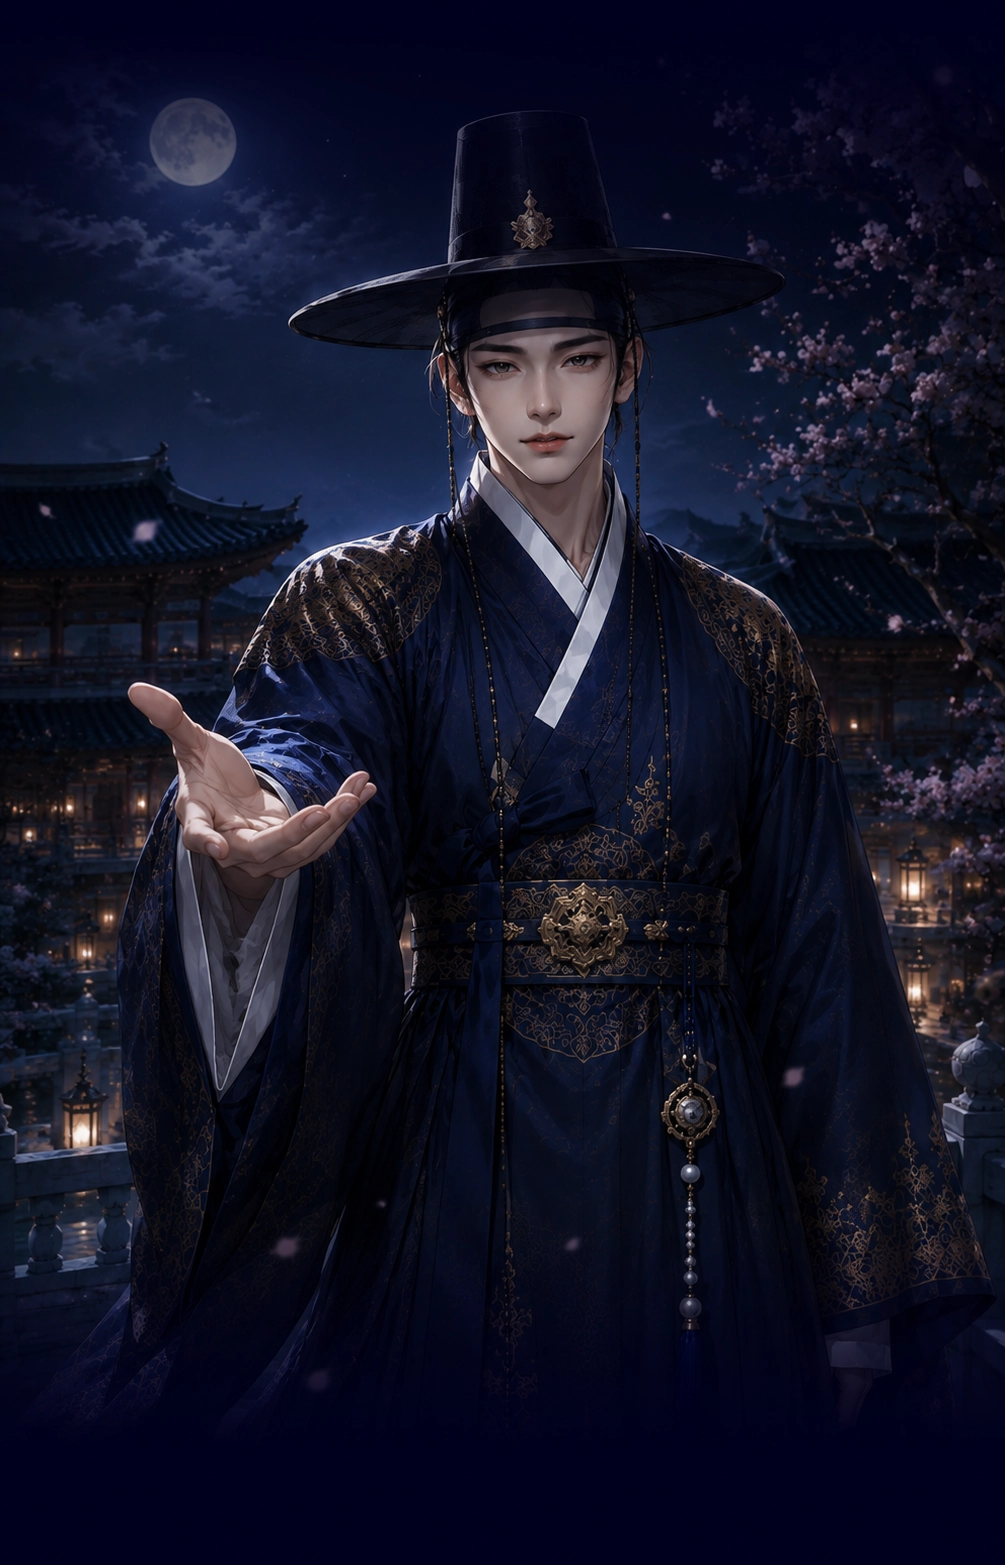
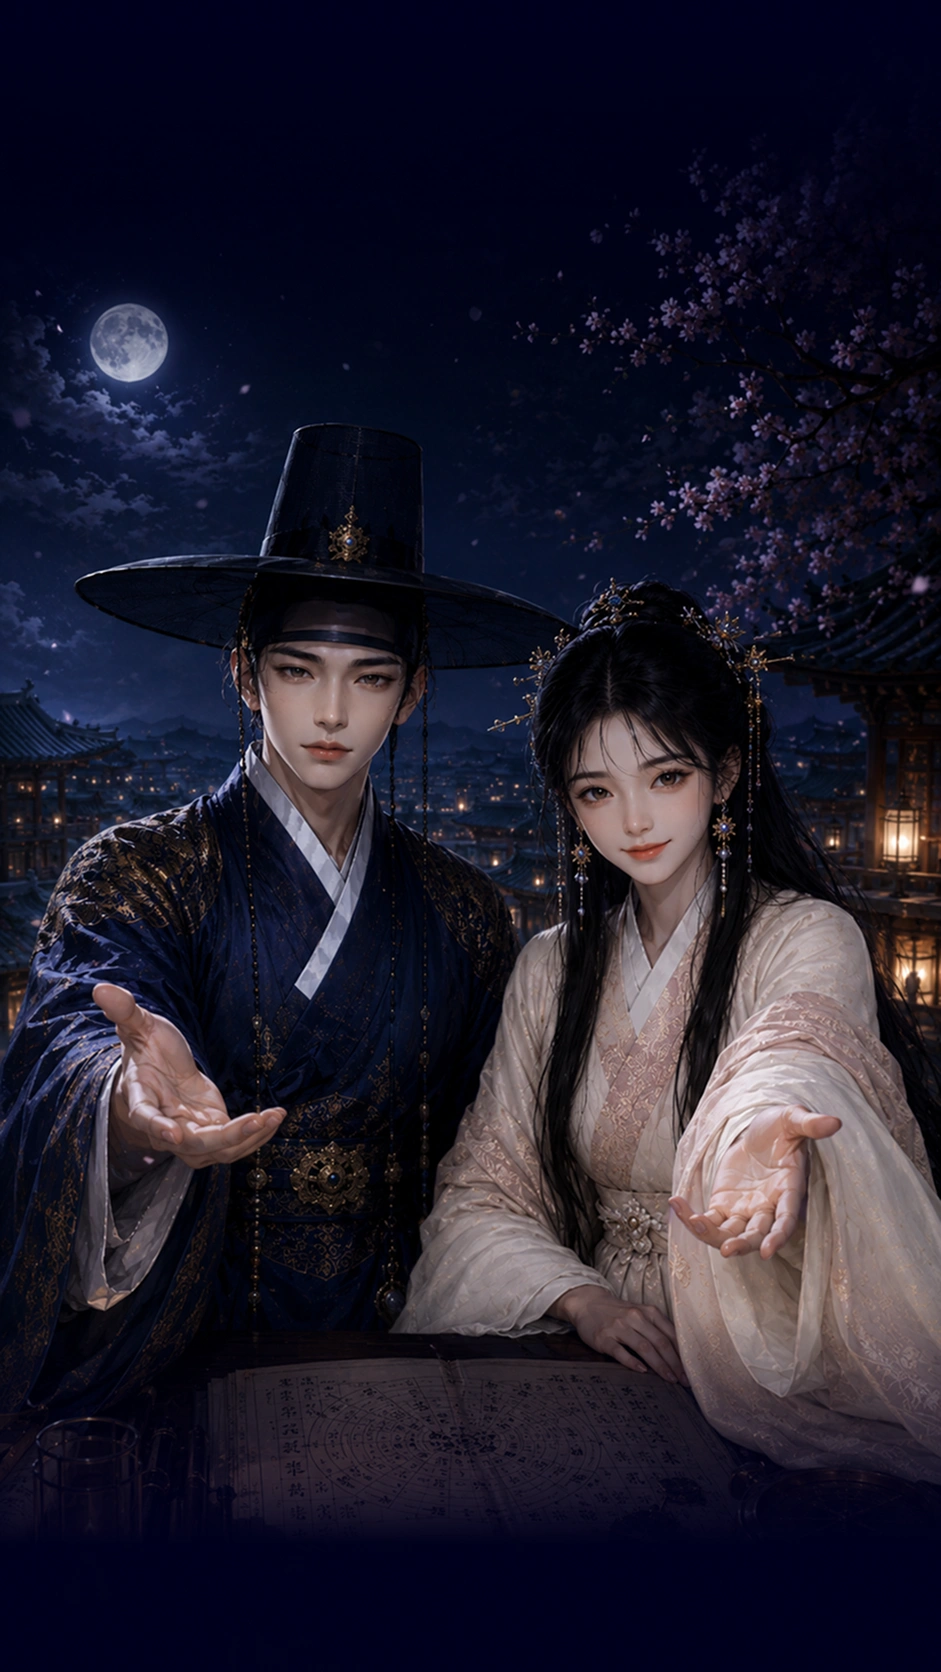
궁합결과및궁합결제수정

diff --git a/resources/js/result_match.js b/resources/js/result_match.js
@@ -34,44 +34,44 @@ const sajuAniImg = {
   pig: "w_pig.webp",
 }
 
-// const sajuExplains = [
-//     {
-//         title: "속궁합과 겉궁합",
-//         content: "두 사람은 겉으로 보이는 성격과 행동 방식이 잘 맞아 처음 만남부터 편안함을 느끼는 궁합입니다. 겉궁합은 매우 좋은 편으로, 대화가 자연스럽고 서로의 존재가 안정감을 줍니다. 다만 속궁합의 경우 내면의 욕구와 감정 표현 방식이 다소 달라 깊은 관계로 발전할수록 세심한 배려가 필요합니다."
-//     },
-//     {
-//         title: "상생과 상극",
-//         content: "두 사람의 오행을 살펴보면 목(木)과 화(火)의 상생 관계가 형성되어 있어 한 사람의 에너지가 다른 사람을 자연스럽게 북돋아 주는 구조입니다. 다만 일부 지지에서 상극 기운이 존재하므로 감정이 격해지는 순간에는 서로를 자극하지 않도록 주의가 필요합니다."
-//     },
-//     {
-//         title: "인연의 깊이",
-//         content: "두 사람의 인연은 단순한 만남이 아닌 전생부터 이어져 온 깊은 흔적이 사주에 남아 있습니다. 처음 만났음에도 오래 알고 지낸 듯한 익숙함을 느끼는 것도 이 때문입니다. 이 인연을 소중히 가꾸어 나간다면 오랜 시간이 지나도 변치 않는 깊은 유대로 발전할 수 있습니다."
-//     },
-//     {
-//         title: "두 사람 사이의 위기 시점",
-//         content: "사주의 흐름상 두 사람 사이에 갈등이 커질 수 있는 시기가 존재합니다. 특히 금(金) 기운이 강해지는 가을철과 경신년(庚辛年) 주기에 오해와 마찰이 생기기 쉽습니다. 이 시기에는 큰 결정을 서두르지 말고, 작은 일에 감정을 소모하지 않는 것이 중요합니다. 위기를 미리 알고 대비하는 것만으로도 관계의 고비를 훨씬 수월하게 넘길 수 있습니다."
-//     },
-//     {
-//         title: "결혼 궁합 — 부부로 살면 어떨까?",
-//         content: "두 사람이 부부로 맺어진다면 초반 3~5년은 서로의 다름을 맞춰가는 적응기가 필요합니다. 일간의 음양 배합이 비교적 조화롭고 배우자 자리(일지)에서 합(合)의 기운이 감지되어 정서적 안정감을 주는 결혼 궁합입니다. 재물 운용 방식과 생활 습관의 차이를 초반에 조율해 두면 함께할수록 더욱 단단해지는 부부가 될 수 있습니다."
-//     },
-//     {
-//         title: "함께 일하면? 비즈니스 궁합",
-//         content: "두 사람의 사주에서 관성과 식상의 흐름이 서로 보완적으로 작용하여 비즈니스 파트너로서 좋은 시너지를 낼 수 있는 조합입니다. 한 명은 아이디어와 추진력을, 다른 한 명은 안정적인 실행력을 담당하는 구조로 역할 분담이 자연스럽게 이루어집니다. 다만 금전 관계가 얽히면 감정 문제로 번질 수 있으니 계약과 정산은 명확히 하는 것이 좋습니다."
-//     },
-//     {
-//         title: "자녀 인연 — 아이와의 궁합",
-//         content: "두 사람이 맺어졌을 때 자녀 인연이 어떻게 나타나는지 사주로 살펴볼 수 있습니다. 두 사람의 사주 구조상 자녀 자리(시주)의 기운이 활발하여 아이와의 인연이 깊고, 자녀로 인해 두 사람의 관계가 더욱 단단해지는 흐름이 보입니다. 첫째 아이와의 인연이 특히 강하며, 아이를 통해 두 사람이 서로를 더 깊이 이해하게 되는 계기가 만들어집니다."
-//     },
-//     {
-//         title: "전생 인연 — 우리는 왜 만났을까?",
-//         content: "사주명리학에서는 현생의 깊은 인연 뒤에 전생의 업(業)이 작용한다고 봅니다. 두 사람의 사주에는 공통된 지지(地支) 암합의 흔적이 있어, 단순한 우연이 아닌 필연적 끌림으로 만나게 된 인연임을 암시합니다. 전생에서 미처 매듭짓지 못한 인연이 이번 생에 다시 이어진 것으로, 서로에게 배워야 할 것과 나누어야 할 것이 분명히 존재합니다."
-//     },
-//     {
-//         title: "조언 및 해결책",
-//         content: "두 사람이 오랫동안 좋은 관계를 유지하기 위해서는 서로의 페이스를 존중하는 것이 가장 중요합니다. 갈등이 생겼을 때는 감정이 가라앉은 후 대화하는 것을 권장하며, 목(木) 기운이 강한 봄철과 동쪽 방향이 두 사람 모두에게 길한 기운을 불어넣어 주는 시기와 방향입니다."
-//     }
-// ];
+const sajuExplains = [
+    {
+        title: "속궁합과 겉궁합",
+        content: "두 사람은 겉으로 보이는 성격과 행동 방식이 잘 맞아 처음 만남부터 편안함을 느끼는 궁합입니다. 겉궁합은 매우 좋은 편으로, 대화가 자연스럽고 서로의 존재가 안정감을 줍니다. 다만 속궁합의 경우 내면의 욕구와 감정 표현 방식이 다소 달라 깊은 관계로 발전할수록 세심한 배려가 필요합니다."
+    },
+    {
+        title: "상생과 상극",
+        content: "두 사람의 오행을 살펴보면 목(木)과 화(火)의 상생 관계가 형성되어 있어 한 사람의 에너지가 다른 사람을 자연스럽게 북돋아 주는 구조입니다. 다만 일부 지지에서 상극 기운이 존재하므로 감정이 격해지는 순간에는 서로를 자극하지 않도록 주의가 필요합니다."
+    },
+    {
+        title: "인연의 깊이",
+        content: "두 사람의 인연은 단순한 만남이 아닌 전생부터 이어져 온 깊은 흔적이 사주에 남아 있습니다. 처음 만났음에도 오래 알고 지낸 듯한 익숙함을 느끼는 것도 이 때문입니다. 이 인연을 소중히 가꾸어 나간다면 오랜 시간이 지나도 변치 않는 깊은 유대로 발전할 수 있습니다."
+    },
+    {
+        title: "두 사람 사이의 위기 시점",
+        content: "사주의 흐름상 두 사람 사이에 갈등이 커질 수 있는 시기가 존재합니다. 특히 금(金) 기운이 강해지는 가을철과 경신년(庚辛年) 주기에 오해와 마찰이 생기기 쉽습니다. 이 시기에는 큰 결정을 서두르지 말고, 작은 일에 감정을 소모하지 않는 것이 중요합니다. 위기를 미리 알고 대비하는 것만으로도 관계의 고비를 훨씬 수월하게 넘길 수 있습니다."
+    },
+    {
+        title: "결혼 궁합 — 부부로 살면 어떨까?",
+        content: "두 사람이 부부로 맺어진다면 초반 3~5년은 서로의 다름을 맞춰가는 적응기가 필요합니다. 일간의 음양 배합이 비교적 조화롭고 배우자 자리(일지)에서 합(合)의 기운이 감지되어 정서적 안정감을 주는 결혼 궁합입니다. 재물 운용 방식과 생활 습관의 차이를 초반에 조율해 두면 함께할수록 더욱 단단해지는 부부가 될 수 있습니다."
+    },
+    {
+        title: "함께 일하면? 비즈니스 궁합",
+        content: "두 사람의 사주에서 관성과 식상의 흐름이 서로 보완적으로 작용하여 비즈니스 파트너로서 좋은 시너지를 낼 수 있는 조합입니다. 한 명은 아이디어와 추진력을, 다른 한 명은 안정적인 실행력을 담당하는 구조로 역할 분담이 자연스럽게 이루어집니다. 다만 금전 관계가 얽히면 감정 문제로 번질 수 있으니 계약과 정산은 명확히 하는 것이 좋습니다."
+    },
+    {
+        title: "자녀 인연 — 아이와의 궁합",
+        content: "두 사람이 맺어졌을 때 자녀 인연이 어떻게 나타나는지 사주로 살펴볼 수 있습니다. 두 사람의 사주 구조상 자녀 자리(시주)의 기운이 활발하여 아이와의 인연이 깊고, 자녀로 인해 두 사람의 관계가 더욱 단단해지는 흐름이 보입니다. 첫째 아이와의 인연이 특히 강하며, 아이를 통해 두 사람이 서로를 더 깊이 이해하게 되는 계기가 만들어집니다."
+    },
+    {
+        title: "전생 인연 — 우리는 왜 만났을까?",
+        content: "사주명리학에서는 현생의 깊은 인연 뒤에 전생의 업(業)이 작용한다고 봅니다. 두 사람의 사주에는 공통된 지지(地支) 암합의 흔적이 있어, 단순한 우연이 아닌 필연적 끌림으로 만나게 된 인연임을 암시합니다. 전생에서 미처 매듭짓지 못한 인연이 이번 생에 다시 이어진 것으로, 서로에게 배워야 할 것과 나누어야 할 것이 분명히 존재합니다."
+    },
+    {
+        title: "조언 및 해결책",
+        content: "두 사람이 오랫동안 좋은 관계를 유지하기 위해서는 서로의 페이스를 존중하는 것이 가장 중요합니다. 갈등이 생겼을 때는 감정이 가라앉은 후 대화하는 것을 권장하며, 목(木) 기운이 강한 봄철과 동쪽 방향이 두 사람 모두에게 길한 기운을 불어넣어 주는 시기와 방향입니다."
+    }
+];
 
 const sajuMatch = {
     Point: {
@@ -473,4 +473,97 @@ function setupPriceBtnToggle() {
             });
         });
     });
+}
+
+
+
+// 추가
+
+// ▼ 추가: btm 영역 전용 아코디언 토글 (기존 toggleExplain과 충돌 방지)
+function toggleExplainBtm(index, element) {
+    const parent = element.parentElement;
+    document.querySelectorAll('.js_result_btm_explainList .result_explainCard').forEach(card => {
+        if (card !== parent) card.classList.remove('on');
+    });
+    parent.classList.toggle('on');
+}
+
+function unlockPremium() {
+    const btmCta = document.querySelector('.js_result_btm_cta');
+    const btmBlur = document.querySelector('.result_btm_previewExplainList');
+    const btmExplainList = document.querySelector('.js_result_btm_explainList');
+    const premiumBtn = document.querySelector('.main_preSajuBtn_btm');
+
+    // 기존 "들여다보기" CTA 제거
+    if (btmCta) {
+        btmCta.style.setProperty('display', 'none', 'important');
+    }
+
+    // 블러 제거
+    if (btmBlur) {
+        btmBlur.style.setProperty('display', 'none', 'important');
+    }
+
+    // 라이트 해설 노출
+    if (btmExplainList) {
+        btmExplainList.style.setProperty('display', 'block', 'important');
+        renderExplainsBtm();
+    }
+
+    // "프리미엄도 보러가기" 노출
+    if (premiumBtn) {
+        premiumBtn.style.setProperty('display', 'block', 'important');
+    }
+
+
+    const resultBtm = document.querySelector('.result_btm');
+if (resultBtm) resultBtm.classList.add('premium_unlocked');
+}
+
+
+
+
+
+
+
+
+
+
+
+
+
+
+
+
+document.addEventListener('DOMContentLoaded', function () {
+    const previewList = document.querySelector('.result_btm_previewExplainList');
+    if (!previewList) return;
+ 
+    previewList.innerHTML = '';
+ 
+    sajuExplains.forEach(function (item, index) {
+        const card = document.createElement('div');
+        card.className = 'result_btm_previewExplainCard';
+        card.innerHTML = `
+            <div class="result_btm_previewExplainTitle" onclick="togglePreviewExplain(this)">
+                <p>${item.title}</p>
+                <div class="result_explain_toggleBtn">
+                    <img src="resources/img/ui/tab.png" alt="">
+                </div>
+            </div>
+            <div class="result_btm_previewExplainContent">
+                <img src="resources/img/result/explain_sample.webp" alt="">
+            </div>
+        `;
+        previewList.appendChild(card);
+    });
+});
+
+ 
+function togglePreviewExplain(element) {
+    const card = element.parentElement;
+    document.querySelectorAll('.result_btm_previewExplainCard').forEach(function (item) {
+        if (item !== card) item.classList.remove('on');
+    });
+    card.classList.toggle('on');
 }

diff --git a/resources/js/result_match_payment.js b/resources/js/result_match_payment.js
@@ -1,0 +1,101 @@
+(function () {
+    const paymentCopy = {
+        
+        title: "두 사람의 앞날을 미리 안다면,\n인연을 대하는 마음도 달라질 걸세.",
+        
+        products: [
+            {
+                title: "월하와 화연의 정통궁합",
+                description: "우리 사이의 진짜 궁합을 읽다",
+                price: "2,900원"
+            },
+            {
+                title: "월하와 화연의 미래궁합",
+                description: "두 사람의 인연은 어디까지 이어질까",
+                price: "12,900원",
+                available: false
+            },
+            {
+                title: "월하와 화연의 궁합패키지",
+                description: "지금의 궁합부터 인연의 미래까지",
+                price: "9,900원",
+                available: false
+            }
+        ]
+        
+    };
+
+    function applyPaymentCopy(container) {
+        const modal = container.querySelector("#paymentModal");
+        if (!modal) return false;
+
+        const title = modal.querySelector(".js_payment_title");
+        if (title) {
+            const [firstLine, secondLine] = paymentCopy.title.split("\n");
+            const highlightedLine = document.createElement("span");
+            highlightedLine.textContent = secondLine;
+            highlightedLine.style.color = "#DDC49B";
+            title.style.fontSize = "1.7em";
+            highlightedLine.style.fontSize = "1em";
+            
+            title.replaceChildren(
+                document.createTextNode(firstLine),
+                document.createElement("br"),
+                highlightedLine
+            );
+        }
+
+        modal.querySelectorAll(".produc_choice_card").forEach((card, index) => {
+            const product = paymentCopy.products[index];
+            if (!product) return;
+
+            const titleElement = card.querySelector(".produc_choice_card_L h2");
+            const descriptionElement = card.querySelector(".produc_choice_card_L p");
+            const priceElement = card.querySelector(".produc_choice_card_R h2");
+
+            if (titleElement) titleElement.textContent = product.title;
+            if (descriptionElement) descriptionElement.textContent = product.description;
+            if (priceElement) priceElement.textContent = product.price;
+
+            if (product.available === false) {
+                card.style.position = "relative";
+                card.style.pointerEvents = "none";
+                card.style.cursor = "not-allowed";
+                card.setAttribute("aria-disabled", "true");
+
+                const unavailableOverlay = document.createElement("div");
+                unavailableOverlay.className = "js_match_product_unavailable";
+                unavailableOverlay.textContent = "준비중";
+                unavailableOverlay.style.position = "absolute";
+                unavailableOverlay.style.inset = "0";
+                unavailableOverlay.style.display = "flex";
+                unavailableOverlay.style.alignItems = "center";
+                unavailableOverlay.style.justifyContent = "center";
+                unavailableOverlay.style.background = "rgba(0, 0, 0, .62)";
+                unavailableOverlay.style.borderRadius = "0.5em";
+                unavailableOverlay.style.backdropFilter = "blur(1px)";
+                unavailableOverlay.style.webkitBackdropFilter = "blur(1px)";
+                unavailableOverlay.style.color = "#DDC49B";
+                unavailableOverlay.style.fontSize = "1.4em";
+                unavailableOverlay.style.fontWeight = "700";
+
+                unavailableOverlay.style.zIndex = "2";
+                card.appendChild(unavailableOverlay);
+            }
+        });
+
+        return true;
+    }
+
+    document.addEventListener("DOMContentLoaded", () => {
+        const container = document.getElementById("paymentContainer");
+        if (!container) return;
+
+        const observer = new MutationObserver(() => {
+            if (applyPaymentCopy(container)) observer.disconnect();
+        });
+
+        observer.observe(container, { childList: true });
+        applyPaymentCopy(container);
+    });
+})();

diff --git a/result_match.html b/result_match.html
@@ -14,7 +14,7 @@
 <body>
     <header></header>
 
-    <div id="paymentContainer" data-payment-src="./product_match.html" style="z-index: 10000;"></div>
+    <div id="paymentContainer" data-payment-src="./product_type2.html" style="z-index: 10000;"></div>
     
     <section class="result_sec1" style="border: none;">
         <div class="result_backbtn"><a href="./index.html"><img src="https://land.withusmk.co.kr/assets/saju/resources/img/ui/arrow-2.webp" alt=""></a></div>
@@ -165,8 +165,9 @@
             <h2 style="font-size: 2.5em;">”두 사람의 이야기,<br>아직 절반도 꺼내지 않았다.<br>그대, 끝까지 마주할<br>준비가 되었는가?”</h2>
         </div>
         <img src="resources/img/result/match_btm.webp" alt="">
-        <div class="main_sec3_preSajuBtn"><a href="./register_prem.html" class="openPayment">들여다보기</a></div>
-        <img src="resources/img/result/blur.webp" alt="" style="margin-top: -17%; width: 100%; z-index: 0;">
+        <div class="main_sec3_preSajuBtn"><a href="./register_prem.html" class="openPayment" style="font-size: .85em;">8가지 정밀 궁합해설 보기 </a></div>
+                <div class="result_btm_previewExplainList"></div>
+
 
     </section>
 
@@ -262,6 +263,7 @@
     </script>
     
     <script src="./resources/js/result_match.js"></script>
+    <script src="./resources/js/result_match_payment.js"></script>
 
     <!-- 템플릿.js -->
     <script src="./resources/js/common.js"></script>

diff --git a/resources/js/common.js b/resources/js/common.js
@@ -774,7 +774,7 @@ if (modal.classList.contains("type2")) {
 
 // ★ match (궁합 결과 페이지 전용 모달) 처리
 if (modal.classList.contains("match")) {
-    modalTitle.innerHTML = "궁합을 자세히 알아야<span>미래에 대처가<br>가능하다네</span>";
+    modalTitle.innerHTML = "두 사람의 앞날을 미리 안다면,<span>인연을 대하는 마음도 달라질 걸세.</span>";
     modal.querySelector(".price_choice").style.display = "";
     productChoice.classList.add("show");
     productBtns[0].classList.remove("active");

diff --git a/resources/css/result.css b/resources/css/result.css
@@ -1104,7 +1104,7 @@ background-clip: text;
 -webkit-text-fill-color: transparent;
 }
 
-.result_btm > img { margin-top: -5%; position: relative; z-index: 1; }
+.result_btm > img { margin-top: -35%; position: relative; z-index: 1; }
 
 /* 260811 */
 
